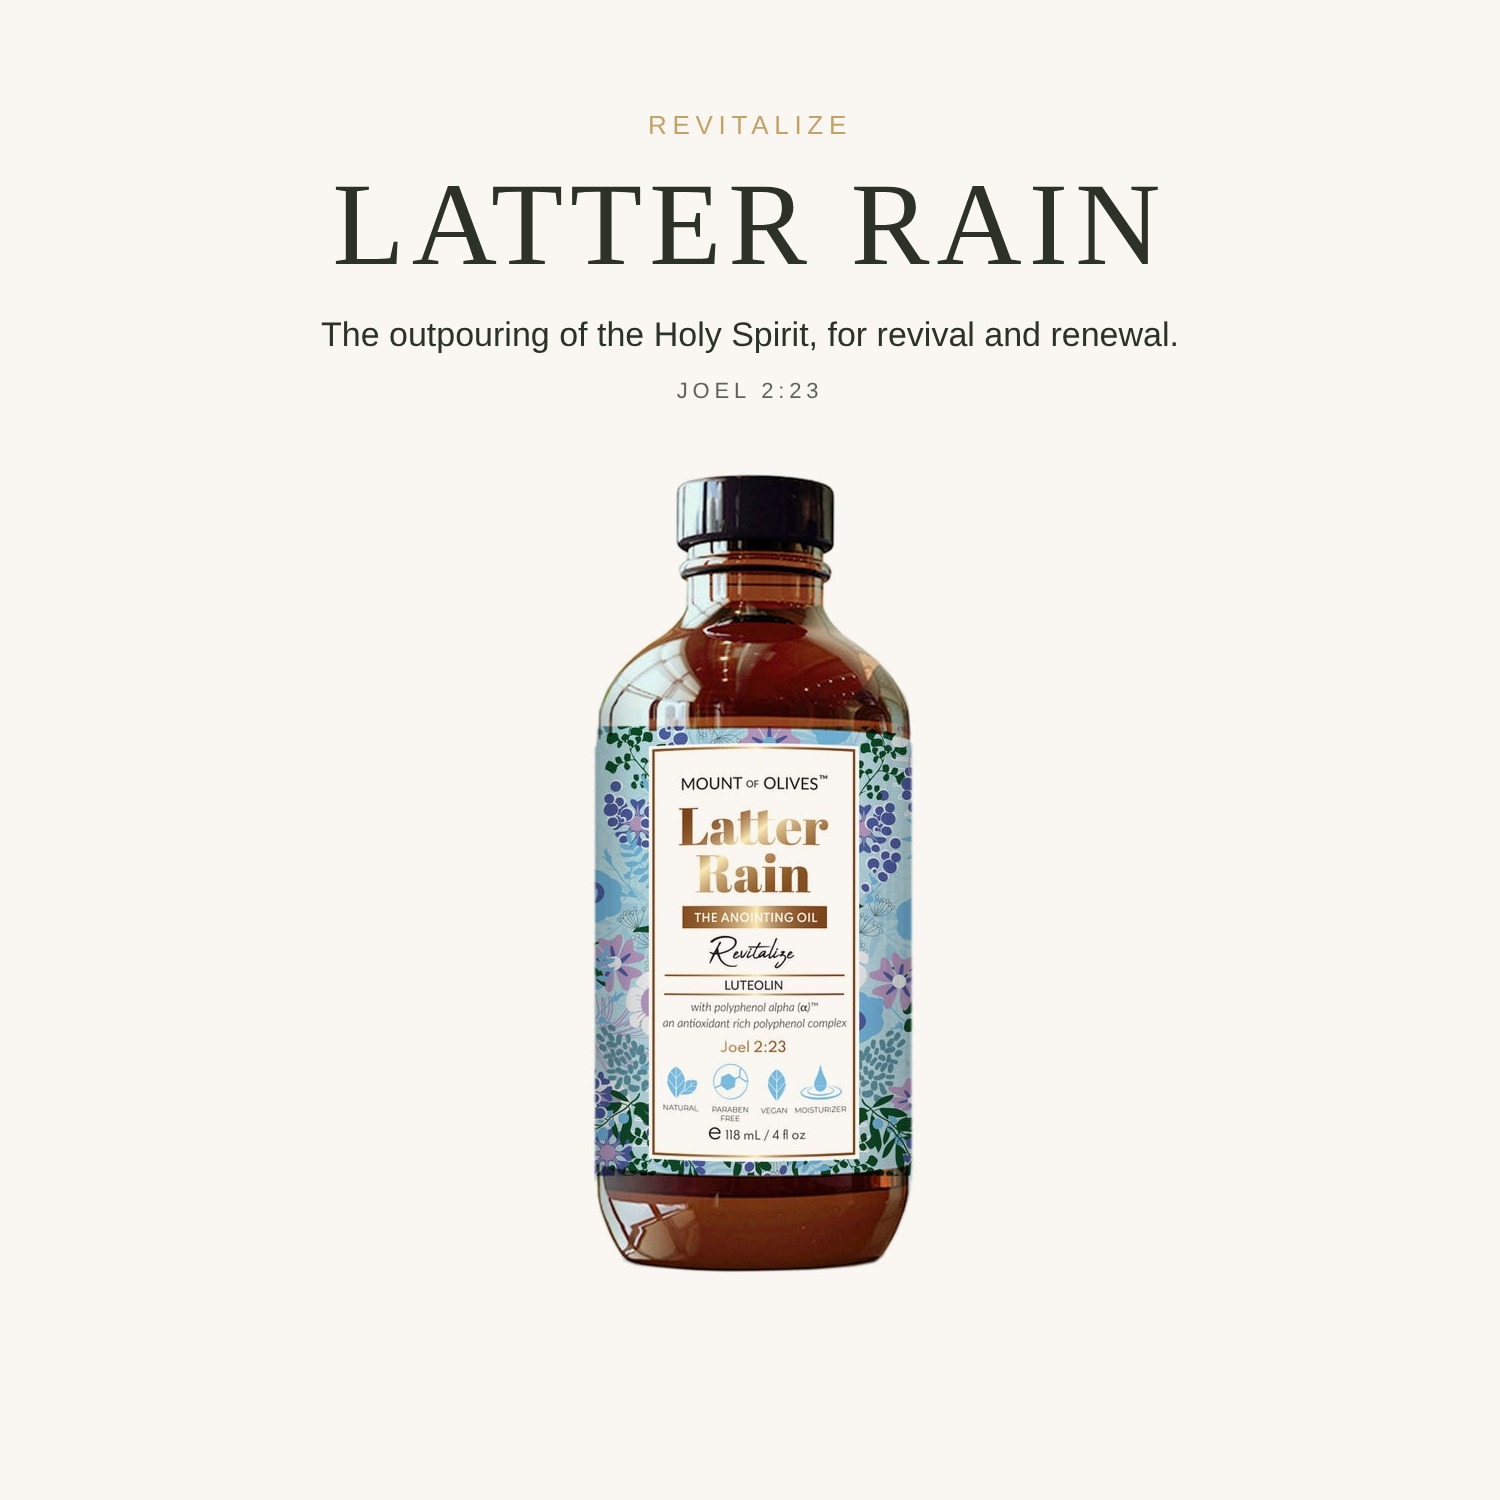
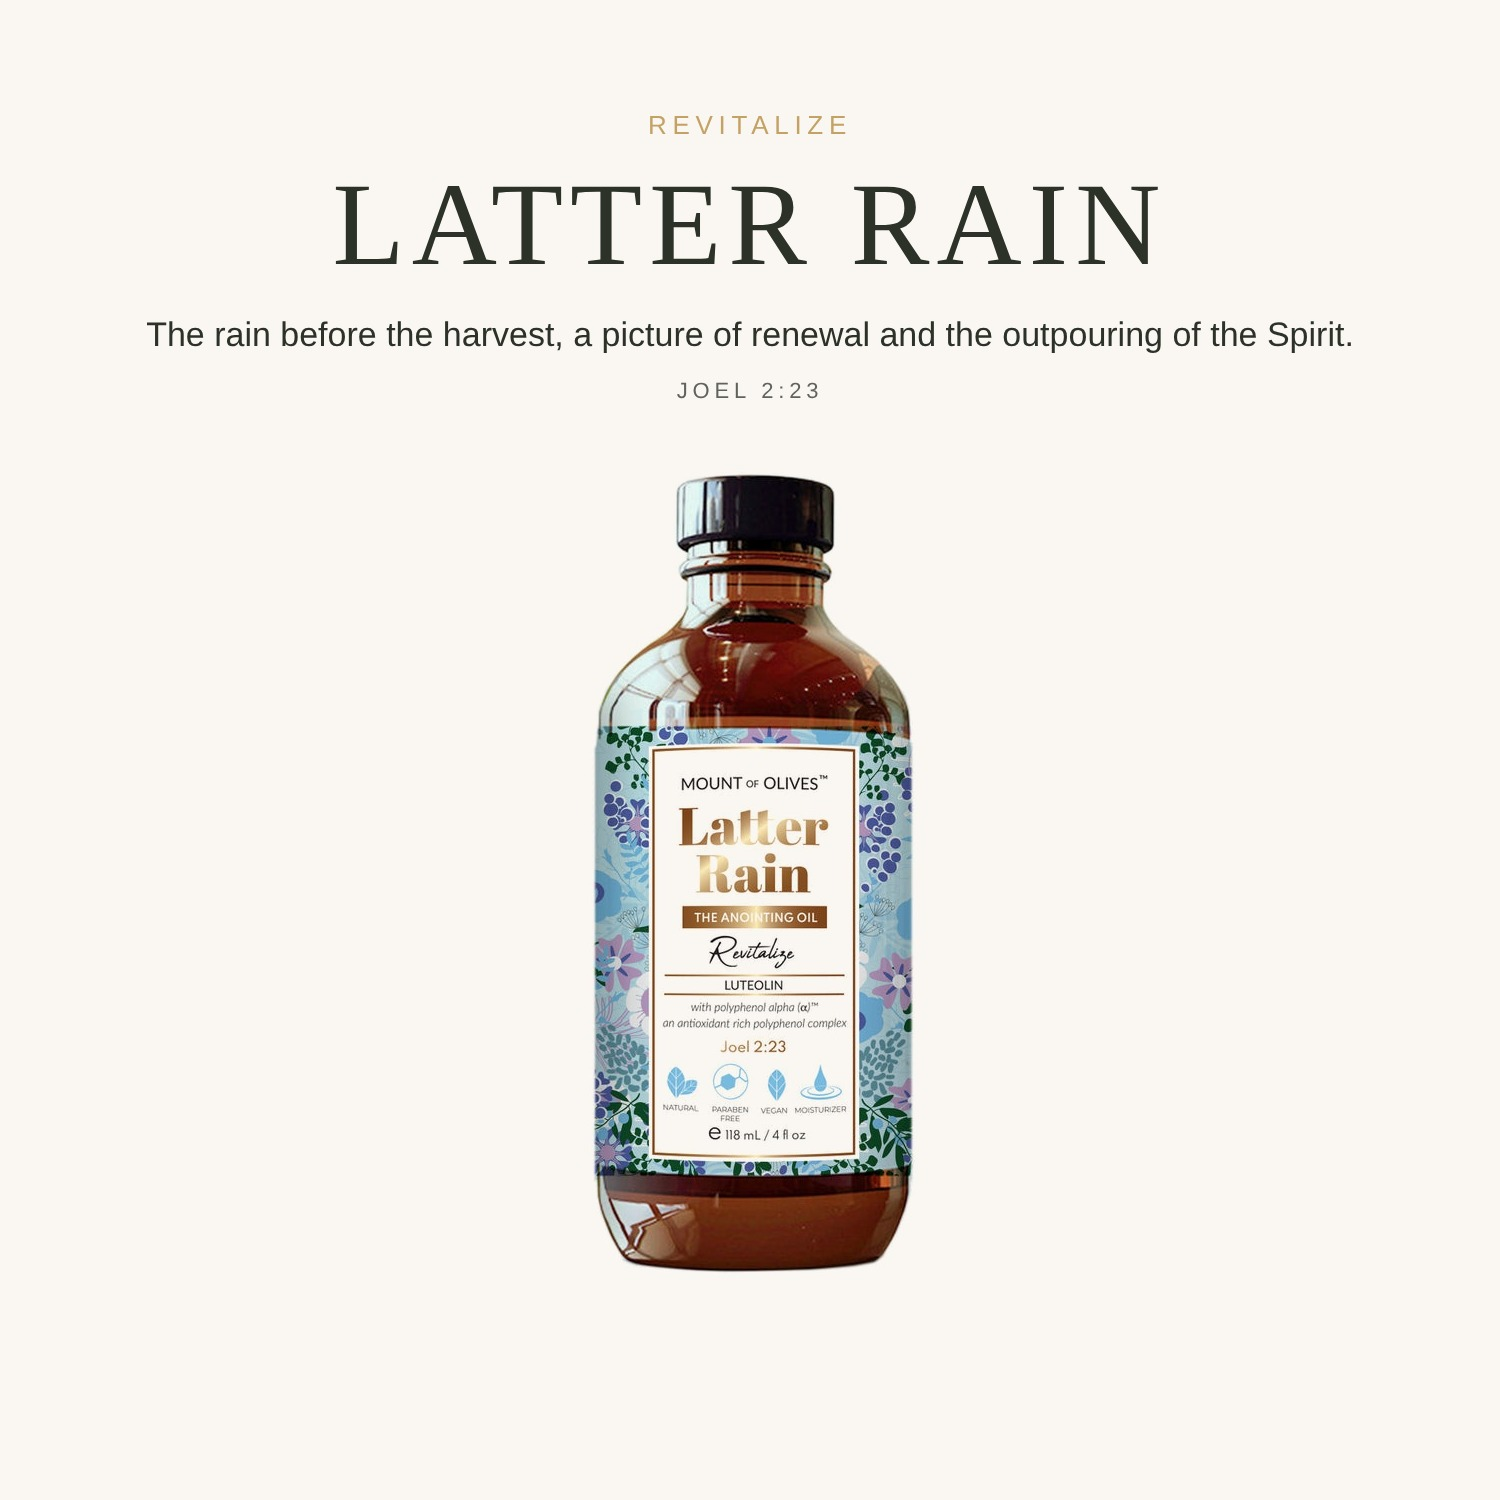
Amazon kit: apply the copy review (KJV Psalm 23:5, Frankincense as Prayer with Psalm 141:2, Gethsemane Matthew 26:36, Magi line, Latter Rain and squalane lines, Every oil hero, Featured oils grid) and regenerate both tile sets
Claude-Session: https://claude.ai/code/session_01GsRPmG9zZcsMxFSEtmX5Uq

Changed region(s): [[0.092, 0.2147, 0.8893, 0.2453]]

diff --git a/dev/amazon-store/copy.md b/dev/amazon-store/copy.md
@@ -10,8 +10,8 @@ Every line below is claim-free and dash-free. Paste as the tile text or link tit
 
 ## Shop All hero (`images/hero-shop-3000x600.jpg`)
 - Eyebrow: Shop the collection
-- Title: Eight oils, one olive base
-- Line: Frankincense & Myrrh, Hyssop, Spikenard, Latter Rain, Rose of Sharon, Lily of the Valley, Pomegranate, Gethsemane.
+- Title: Every oil, one olive base
+- Line: Frankincense & Myrrh, Hyssop, Spikenard, Latter Rain, Rose of Sharon, Lily of the Valley, Pomegranate, Gethsemane, Frankincense, Myrrh, and 100% Olive Squalane.
 
 ## Oil tiles (1500 x 1500, `images/tile-<oil>-1500x1500.jpg`)
 
@@ -19,20 +19,20 @@ Link title to type into Store Builder: the oil name. The tile image already carr
 
 | Tile | Word | Line | Verse |
 |---|---|---|---|
-| Frankincense & Myrrh | Restore | The gifts of the Magi, for prayer, worship, and healing prayer. | Matthew 2:11 |
+| Frankincense & Myrrh | Restore | Two gifts of the Magi, for prayer, worship, and blessing. | Matthew 2:11 |
 | Hyssop | Purification | The herb of purification. Purge me with hyssop, and I shall be clean. | Psalm 51:7 |
 | Spikenard | Renewal | The precious oil Mary poured out at Bethany in extravagant worship. | John 12:3 |
-| Latter Rain | Revitalize | The outpouring of the Holy Spirit, for revival and renewal. | Joel 2:23 |
+| Latter Rain | Revitalize | The rain before the harvest, a picture of renewal and the outpouring of the Spirit. | Joel 2:23 |
 | Rose of Sharon | Radiance | I am the rose of Sharon. The flower of the Song of Solomon. | Song of Solomon 2:1 |
 | Lily of the Valley | Illuminate | A symbol of purity and peace, the lily of the valleys. | Song of Solomon 2:1 |
 | Pomegranate | Eternal | A symbol of fruitfulness and abundance, one of the seven blessed fruits. | Deuteronomy 8:8 |
-| Gethsemane | Unscented | Pure olive squalane, in the simplicity of the garden where Jesus prayed. | Psalm 23:5 |
-| Frankincense | Protect | A symbol of prayer rising before God like incense. | Song of Solomon 4:6 |
+| Gethsemane | Unscented | Pure olive squalane, in the simplicity of the garden where Jesus prayed. | Matthew 26:36 |
+| Frankincense | Prayer | A symbol of prayer rising before God like incense. | Psalm 141:2 |
 | Myrrh | Transform | A symbol of purification and of Christ's sacrifice. | Esther 2:12 |
-| 100% Olive Squalane | Hydrate | The base of every oil we make, from the tree of Gethsemane. | Exodus 27:20 |
+| 100% Olive Squalane | Hydrate | The base of every oil we make, from the olive, pure oil for the light. | Exodus 27:20 |
 
 ## Scripture tile (1500 x 750, `images/tile-scripture-1500x750.jpg`)
-- “You anoint my head with oil; my cup runneth over.” Psalm 23:5
+- “Thou anointest my head with oil; my cup runneth over.” Psalm 23:5
 
 ## Our story tile (1500 x 750, `images/tile-story-1500x750.jpg`)
 - Eyebrow: Our story

diff --git a/dev/amazon-store/README.md b/dev/amazon-store/README.md
@@ -31,11 +31,11 @@ Home
 2. **Shop by oil**: eleven image tiles at 1500 x 1500, `images/tile-<oil>-1500x1500.jpg`, in this order: Frankincense & Myrrh, Hyssop, Spikenard, Latter Rain, Rose of Sharon, Lily of the Valley, Pomegranate, Gethsemane, Frankincense, Myrrh, 100% Olive Squalane. Set each tile's link to that oil's product page (ASIN) and type the oil name as the link title. Each tile already carries the oil's word (Restore, Purification, Renewal...), one line of its meaning in Scripture, and the verse, with the bottom 12 percent left clear for Amazon's link-title band.
 3. **Scripture band**: medium tile `images/tile-scripture-1500x750.jpg` (Psalm 23:5), no link, beside the **Our story** tile `images/tile-story-1500x750.jpg` linking to the Our Story page.
 4. **What is in every bottle**: medium tile `images/tile-inside-1500x750.jpg` linking to the Our Story page (or to the 100% Olive Squalane page).
-5. **Best sellers**: a product grid tile. Store Builder fills it from your listings; pick the 4 oz Frankincense & Myrrh, Hyssop, Spikenard and Rose of Sharon.
+5. **Featured oils**: a product grid tile with ASINs added by hand (the 4 oz Frankincense & Myrrh, Hyssop, Spikenard and Rose of Sharon), headed "Featured oils". Amazon's Stores policy does not allow a "Best sellers" heading unless the grid is Amazon's own automatic best-seller widget.
 
 ### Shop All Anointing Oils
 
-- Hero `images/hero-shop-3000x600.jpg` ("Eight oils, one olive base"), then a product grid of every listing. Store Builder's "Product grid" tile lets you add ASINs by hand in a chosen order; use the same order as the Shop by oil tiles.
+- Hero `images/hero-shop-3000x600.jpg` ("Every oil, one olive base"), then a product grid of every listing. Store Builder's "Product grid" tile lets you add ASINs by hand in a chosen order; use the same order as the Shop by oil tiles.
 
 ### Frankincense & Myrrh, 100% Olive Squalane
 
@@ -82,5 +82,4 @@ Amazon's Stores policy forbids customer reviews or testimonials, time-bound prom
 ## What Claude needs from you to go further
 
 - **Connect the "Amazon Selling Partner" connector** in claude.ai (Settings > Connectors). With it, Claude can read your current Amazon listings, rewrite titles, bullets and descriptions in the same claim-free voice, update them, and create A+ Content for each product page through the Selling Partner API. Building the Store pages themselves stays a Store Builder job.
-- **Brand Registry status**: whether "Mount of Olives" is enrolled (it needs a trademark). If not, the first step is the trademark application; Amazon's IP Accelerator can shorten the wait.
 - **ASINs**: the product grid and the tile links need them. The connector returns them, or they are on each listing in Seller Central.
